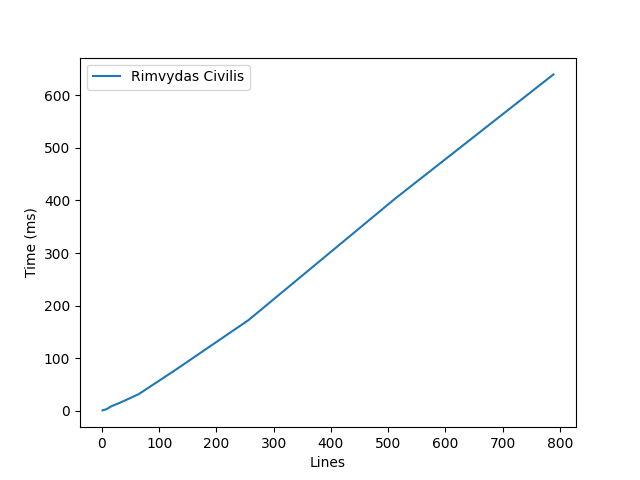
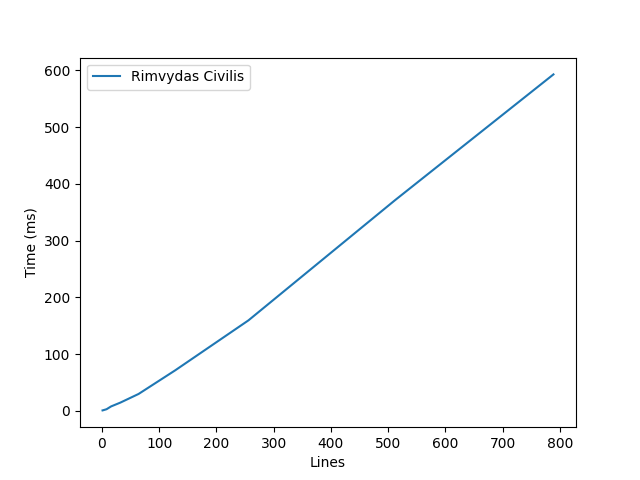
Update testing data

diff --git a/README.md b/README.md
@@ -74,66 +74,21 @@ $ make test
 
 ### Testavimo rezultatai
 ```json
-[
-  {
-    "name": "Rimvydas Civilis",
-    "not_deterministic_count": 0,
-    "size_diff_count": 0,
-    "collision_count": 0,
-    "hashing_time": [
-      {
-        "lines": 1,
-        "time": 0.7785736
-      },
-      {
-        "lines": 2,
-        "time": 1.1241524
-      },
-      {
-        "lines": 4,
-        "time": 1.7420578
-      },
-      {
-        "lines": 8,
-        "time": 3.114778
-      },
-      {
-        "lines": 16,
-        "time": 8.447424
-      },
-      {
-        "lines": 32,
-        "time": 15.619127999999998
-      },
-      {
-        "lines": 64,
-        "time": 31.54336
-      },
-      {
-        "lines": 128,
-        "time": 77.42084
-      },
-      {
-        "lines": 256,
-        "time": 172.37507999999997
-      },
-      {
-        "lines": 512,
-        "time": 403.09680000000003
-      },
-      {
-        "lines": 789,
-        "time": 639.5328000000001
-      }
-    ],
-    "avg_hex_diff": 0.937374375,
-    "min_hex_diff": 0.765625,
-    "max_hex_diff": 1.0,
-    "avg_bit_diff": 0.4999576171875,
-    "min_bit_diff": 0.3515625,
-    "max_bit_diff": 0.62109375
-  }
-]
+[{
+  "name":"Rimvydas Civilis",
+  "not_deterministic_count":0,
+  "size_diff_count":0,
+  "collision_count":0,
+  "hashing_time":[{"lines":1,"time":0.769491},{"lines":2,"time":1.0308778},{"lines":4,"time":1.6383412},{"lines":8,"time":2.8493539999999995},{"lines":16,"time":7.812054000000001},{"lines":32,"time":14.444640000000001},{"lines":64,"time":29.75768},{"lines":128,"time":71.40061999999999},{"lines":256,"time":159.45337999999998},{"lines":512,"time":371.11600000000004},{"lines":789,"time":592.8882}],
+  "avg_hex_diff":0.93744546875,
+  "min_hex_diff":0.765625,
+  "max_hex_diff":1,
+  "avg_bit_diff":0.4999525,
+  "min_bit_diff":0.3515625,
+  "max_bit_diff":0.6328125,
+  "bit_diff_distr":[0.49899,0.49542,0.50409,0.50006,0.50108,0.50115,0.50031,0.50071,0.50085,0.4987,0.50256,0.5026,0.50231,0.50103,0.49698,0.50101,0.49916,0.50129,0.50188,0.50122,0.50074,0.50002,0.5028,0.50275,0.50246,0.49897,0.50053,0.49932,0.50034,0.49965,0.50257,0.49801,0.49876,0.50001,0.49917,0.50197,0.4998,0.50071,0.49926,0.49987,0.49963,0.4977,0.49821,0.50414,0.5004,0.50123,0.5017,0.49921,0.4985,0.49954,0.49893,0.5033,0.49945,0.50101,0.5005,0.49996,0.49916,0.49933,0.5019,0.4956,0.4979,0.50084,0.50014,0.50011,0.50024,0.49948,0.50003,0.49862,0.49648,0.49967,0.50044,0.50168,0.50062,0.49793,0.50023,0.4993,0.50157,0.49682,0.50145,0.50229,0.49902,0.49957,0.50065,0.4973,0.4997,0.49844,0.50184,0.5015,0.49962,0.49944,0.50142,0.50418,0.49964,0.49987,0.50078,0.50186,0.49846,0.49867,0.50028,0.49879,0.5011,0.49968,0.49899,0.50256,0.4997,0.49626,0.50099,0.49967,0.49981,0.49994,0.49937,0.50061,0.49802,0.49878,0.50072,0.50017,0.49895,0.50158,0.49804,0.49877,0.49945,0.501,0.49992,0.50055,0.49924,0.49689,0.50188,0.50149,0.49705,0.50141,0.50066,0.50192,0.49914,0.50218,0.49915,0.49896,0.49738,0.50126,0.49794,0.50299,0.50008,0.49895,0.49897,0.49928,0.50305,0.50158,0.49847,0.4986,0.49885,0.50268,0.49963,0.49676,0.49858,0.49904,0.50331,0.50277,0.498,0.49805,0.49978,0.50272,0.5015,0.49843,0.49968,0.50103,0.49884,0.49964,0.50067,0.5017,0.50076,0.49921,0.50078,0.50162,0.50045,0.49866,0.49942,0.50291,0.49807,0.4992,0.49761,0.49992,0.50238,0.49904,0.50125,0.49866,0.50034,0.49854,0.49827,0.49808,0.4997,0.50003,0.50061,0.49842,0.49919,0.49838,0.50013,0.49748,0.49758,0.50178,0.49974,0.49811,0.50079,0.49994,0.50188,0.49846,0.49947,0.49375,0.49998,0.50098,0.50323,0.49528,0.4959,0.49888,0.50231,0.4998,0.498,0.5033,0.49797,0.50286,0.49973,0.50266,0.50158,0.49942,0.49855,0.50025,0.50017,0.50079,0.49836,0.49927,0.49709,0.50152,0.50048,0.49972,0.49951,0.50278,0.49779,0.50242,0.50084,0.49822,0.4996,0.49931,0.49823,0.50051,0.49954,0.49763,0.49868,0.49871,0.50124,0.50191,0.50083,0.50064,0.4977,0.49996,0.4997,0.4993,0.50401,0.4999],
+  "no_bits":256
+}]
 ```
 ### Testavimo rezultatų išvados
 1. Galime paleisti programą su bet kokio ilgio string'ais ir failais, ir gauti hash'ą, programa veikia kaip tikimasi.
@@ -144,7 +99,10 @@ $ make test
     ![Maišos funkcijos laiko grafikas](/img/time.png)
 
 5. Maišos funkcija atspari kolizijoms. Bandyta su 1000000 skirtingų string'ų, kolizijų nerasta.
-6. Funkcija turi lavinos efektą. Bandyta su 1000000 skirtingų string'ų, 1 bito pakeitimas string'e vidutiniškai pakeičia 93% hex'ų ir 50% bitų.
+6. Funkcija turi lavinos efektą. Bandyta su 1000000 skirtingų string'ų, 1 bito pakeitimas string'e vidutiniškai pakeičia 94% hex'ų ir 50% bitų.
+7. Hash'o skirtingų bit'ų pasiskirstymas:
+
+    ![Maišos funkcijos bitų pasiskirstymas](/img/bit_diff_dist.png)
 
 Funkcijos stiprybės:
 - Deterministinė
